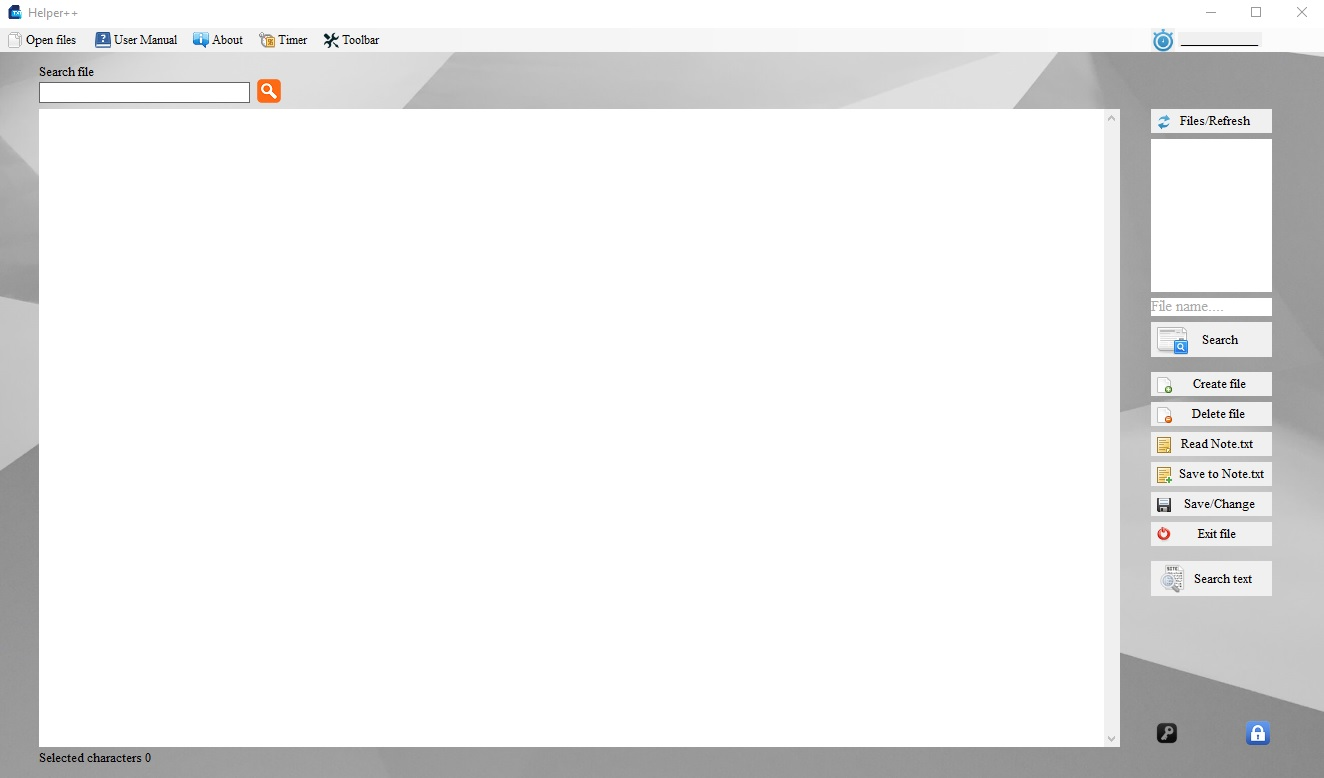
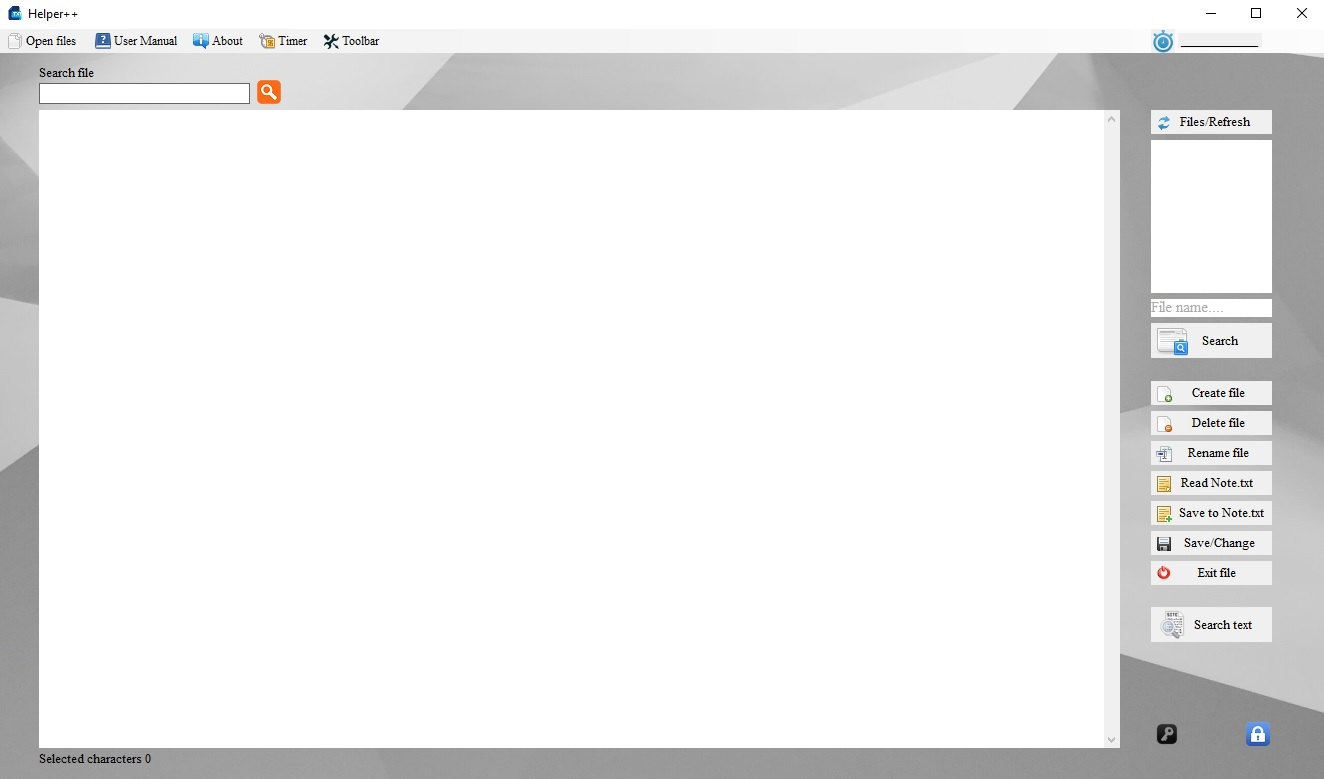
new helper++ version descr

diff --git a/index.html b/index.html
@@ -61,7 +61,7 @@ Licensed by https://creativecommons.org/licenses/by/3.0/ ©
 <div id="helperPlusPluss" class="tabcontent">
 <div class="helper">
 <h3 id="softwareHelper++" class ="headerTools"><strong>Helper++</strong></h3>
-  <img src="assets/Helper++.jpeg" style="width: 90vmin;height: 50vmin;" alt="Helper++"/>
+  <img src="assets/Helper++.jpeg" style="width: 100vmin;height: 60vmin;" alt="Helper++"/>
  <p id="descriptionHelper" class="cardDescription"></p>
     <p>
       <table>
@@ -122,6 +122,11 @@ Licensed by https://creativecommons.org/licenses/by/3.0/ ©
           Stopwatch added with possibility to customize seconds, minutes and hours. 
           Some GUI icons changed. 
           Bug fixed for RTF file.</td>
+      </tr>
+      <tr>
+        <td>0.3.2.7</td>
+        <td>Aug 09, 2020</td>
+        <td>Now its possibly to rename the file from Helper++.</td>
       </tr>
   </table>
 </p>
